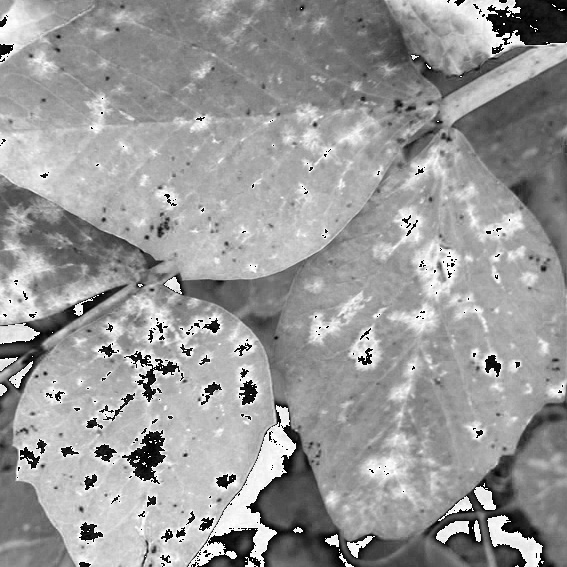
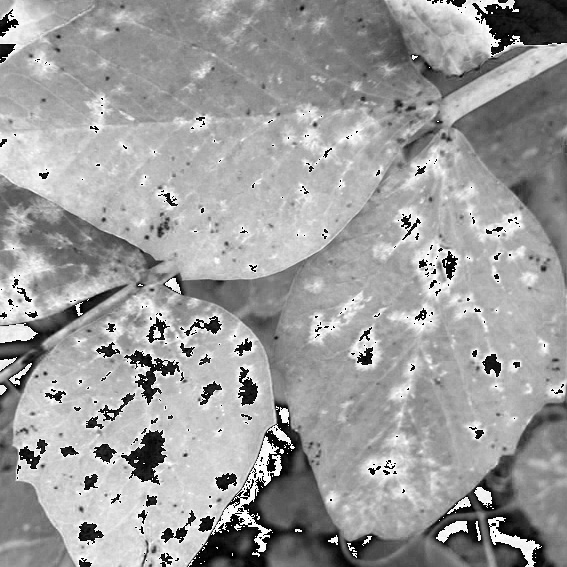
Implement VVI

diff --git a/vari_test.py b/vari_test.py
@@ -13,31 +13,33 @@ def main():
     for i in range(count_images_in_dir(FOLDER_DIR)):
         img_rgb = imcrop_tosquare(plant_img[i])
         b, g, r = cv2.split(img_rgb)
+        b_0, g_0, r_0 = [0, 50, 30]
+
+        r = r + 10
+        g = g + 10
+        b = b + 10
+
+        vvi = ((1 - ((r - r_0) / (r + r_0))) * (1 - ((g - g_0) / (g + g_0))) * (1 - ((b - b_0) / (b + b_0)))) ** (1 / 1)
         # red_channel = (r / (r + g + b))
         # green_chanel = (g / (r + g + b))
         # blue_channel = (b / (r + g + b))
+
         iso_green = ((2 * g) + b - (2 * r))
 
         # Specify filename for each channel e.g. blue: b_00001.jpg
         g_file = 'g_000%02d.jpg' % i
+        v_file = 'v_000%02d.jpg' % i
 
         # Specify which directory to save processed channel
         g_export_dir = 'exports/green'
+        v_export_dir = 'exports/vvi'
 
         print('Preparing to process:\t' + g_file)
         cv2.imwrite(os.path.join(g_export_dir, g_file), iso_green)
-        print('Done processing:\t' + g_file)
+        print('Preparing to process:\t' + v_file)
+        cv2.imwrite(os.path.join(v_export_dir, v_file), vvi)
+        print('Done processing:\t' + v_file)
     print('Done procesing image in\t' + FOLDER_DIR)
-
-'''def split_image(image):
-    # Formula based from https://www.researchgate.net/post/Extract_Greenness2
-    b, g, r = cv2.split(image)
-    red_channel = (r / (r + g + b))
-    green_chanel = (g / (r + g + b))
-    blue_channel = (b / (r + g + b))
-    iso_green = ((2 * g) + b - (2 * r))
-    return iso_green
-'''
 
 if __name__ == "__main__":
     main()

diff --git a/vvi.py b/vvi.py
@@ -1,0 +1,6 @@
+from process_image import *
+
+def get_processed_image(image):
+    rgb_0 = [30, 50, 0]
+
+    
